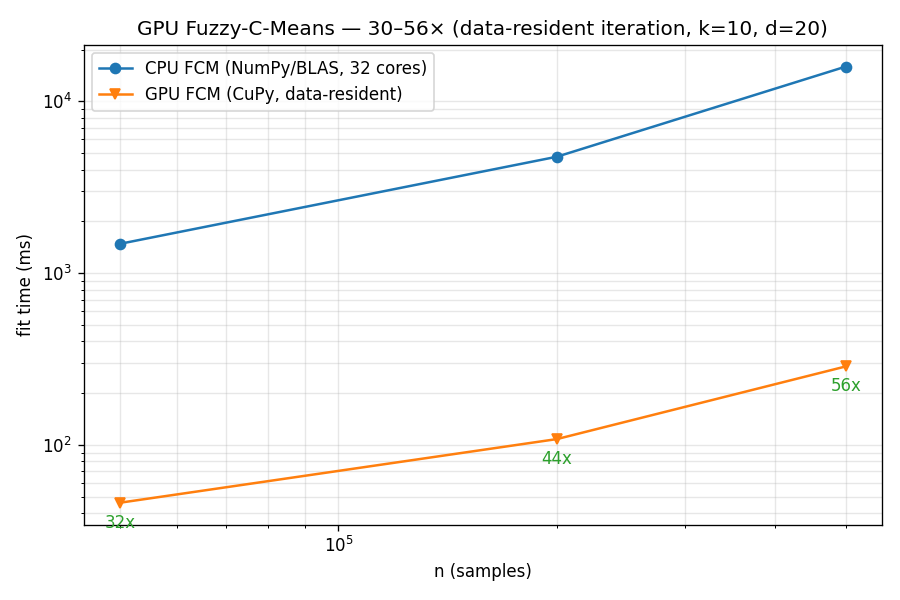
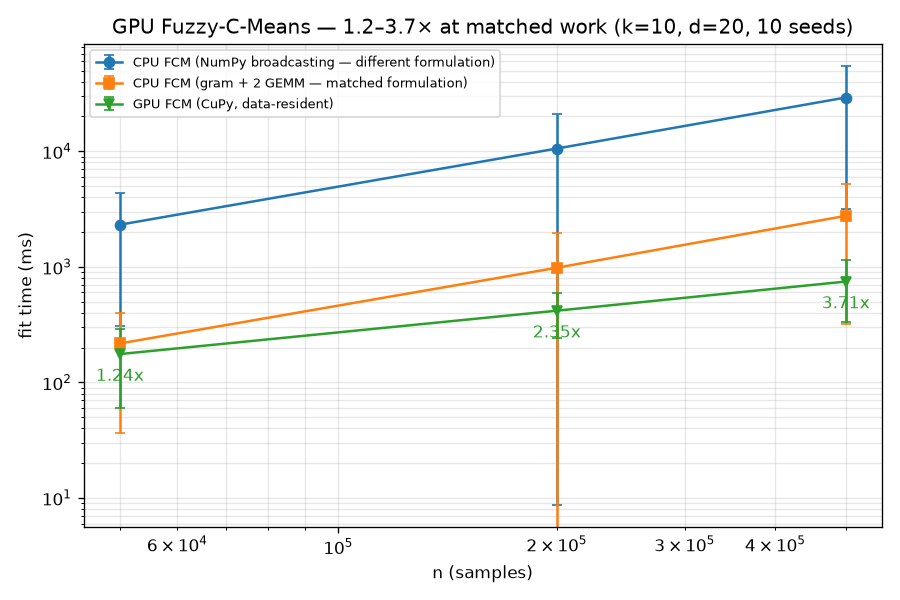
fix(findings): correct the FCM speedup upstream, where the 30-56x originated
The proposal quoted 30-56x because five documents in ClusteringExperiments/ said so,
including white-paper.md's abstract. Correcting the chapter without correcting the
source leaves the figure in the place most likely to be copied forward.

Traced: performance-report.md section 3, "GPU Fuzzy-C-Means -- the clean GPU win
(30-56x)", attributed to PR #20. A single run at three sizes, no seeds, no spreads:
1480/4759/15933 ms CPU against 46/108/286 ms GPU, annotated 32x/44x/56x. It
propagated to white-paper.md, SUMMARY_REPORT.md, next-steps.md and
DC_VAT_FINDINGS.md, then into the Chapter 3 draft on 2026-07-31 (9e80014).

Two independent defects, and both matter.

The single run does not reproduce. Ten seeds against the SAME CPU arm read
13.2x/25.3x/39.2x, consistently across three archives (gpu-table34-2026-08-02,
full-2026-08-03, uniform-2026-08-03). The original was high by 2.2x, 1.8x and 1.4x.

The comparison was never device-to-device. That CPU arm, `fcm.fuzzy_c_means`,
computes distances by NumPy broadcasting and materialises (n,k,d) and (n,k,k)
temporaries; the GPU kernel uses the gram identity and two GEMMs. Run the GPU's own
formulation on the CPU and the device win is 1.24x/2.35x/3.71x. About an order of
magnitude of the published figure was a reformulation obtainable on the CPU with no
GPU in the machine -- a real result, and not a GPU result.

Nothing has been circulated, so these are corrections rather than retractions and are
[…]

diff --git a/ClusteringExperiments/perf_report_figs.py b/ClusteringExperiments/perf_report_figs.py
@@ -94,31 +94,56 @@ def memory_reduction():
     print("wrote memory_reduction.png")
 
 
-# 3. GPU FCM — documented (benchmarks/gpu_fcm.md), m=2, k=10, d=20.
+# 3. GPU FCM, m=2, k=10, d=20. Ten seeds, from
+# reproduce/outputs/uniform-2026-08-03/table_3_4_gpu_speedups.csv.
+#
+# This used to plot one CPU arm at [1480, 4759, 15933] ms against the GPU and
+# annotate 32x/44x/56x, titled "30-56x". Two things were wrong with that. The
+# single-run numbers do not reproduce -- ten seeds give 13.2x/25.3x/39.2x against
+# the SAME CPU arm across three archives -- and, more importantly, that arm is
+# `fcm.fuzzy_c_means`, which computes distances by NumPy broadcasting and
+# materialises (n,k,d) and (n,k,k) temporaries. The legend said "NumPy/BLAS",
+# which described the arm that was NOT being plotted: run the GPU kernel's own
+# gram-plus-two-GEMM formulation on the CPU and the device win is 1.2x-3.7x.
+#
+# So both CPU arms are drawn now, because the gap between them IS the finding:
+# most of the apparent GPU advantage was a formulation available on the CPU for
+# free. Error bars are the ten-seed standard deviation, and they are wide on the
+# broadcasting arm on purpose -- iteration count to the fixed point ranges from 11
+# to the 100-iteration cap, so its spread is as large as its mean and no single
+# run of it means anything.
 def gpu_fcm():
     n = [50000, 200000, 500000]
-    cpu = [1480, 4759, 15933]
-    gpu = [46, 108, 286]
+    cpu_bcast = [2314.8, 10563.6, 29186.8]          # fcm.fuzzy_c_means (broadcasting)
+    cpu_bcast_sd = [2009.5, 10554.9, 25994.9]
+    cpu_blas = [217.1, 981.9, 2762.6]               # gram + 2 GEMM, the GPU's formulation
+    cpu_blas_sd = [180.4, 985.6, 2440.3]
+    gpu = [175.7, 417.2, 745.4]
+    gpu_sd = [115.6, 174.7, 410.6]
     fig, ax = plt.subplots(figsize=(7.5, 5))
-    ax.plot(n, cpu, "o-", label="CPU FCM (NumPy/BLAS, 32 cores)")
-    ax.plot(n, gpu, "v-", label="GPU FCM (CuPy, data-resident)")
+    ax.errorbar(n, cpu_bcast, yerr=cpu_bcast_sd, fmt="o-", capsize=3,
+                label="CPU FCM (NumPy broadcasting — different formulation)")
+    ax.errorbar(n, cpu_blas, yerr=cpu_blas_sd, fmt="s-", capsize=3,
+                label="CPU FCM (gram + 2 GEMM — matched formulation)")
+    ax.errorbar(n, gpu, yerr=gpu_sd, fmt="v-", capsize=3,
+                label="GPU FCM (CuPy, data-resident)")
     ax.set_xscale("log")
     ax.set_yscale("log")
-    for x, c, g in zip(n, cpu, gpu):
+    for x, c, g in zip(n, cpu_blas, gpu):
         ax.annotate(
-            f"{c/g:.0f}x",
+            f"{c/g:.2f}x",
             (x, g),
             textcoords="offset points",
-            xytext=(0, -15),
+            xytext=(0, -16),
             ha="center",
             fontsize=10,
             color="tab:green",
         )
     ax.set_xlabel("n (samples)")
     ax.set_ylabel("fit time (ms)")
-    ax.set_title("GPU Fuzzy-C-Means — 30–56× (data-resident iteration, k=10, d=20)")
+    ax.set_title("GPU Fuzzy-C-Means — 1.2–3.7× at matched work (k=10, d=20, 10 seeds)")
     ax.grid(True, which="both", alpha=0.3)
-    ax.legend()
+    ax.legend(fontsize=8)
     fig.tight_layout()
     fig.savefig(FIG_DIR / "gpu_fcm_speedup.png", dpi=120)
     plt.close(fig)

diff --git a/ClusteringExperiments/findings/performance-report.md b/ClusteringExperiments/findings/performance-report.md
@@ -44,19 +44,35 @@ throughout; a latent in-place-permutation correctness bug was also fixed here.
 
 ---
 
-## 3. GPU Fuzzy-C-Means — the clean GPU win (30–56×)
+## 3. GPU Fuzzy-C-Means — 1.2–3.7× at matched work
 
 FCM is iterative and data-resident, so it amortizes transfer. `FuzzyCMeans(use_gpu="auto")`.
 
+**Corrected 2026-08-04.** This section read "the clean GPU win (30–56×)" and quoted a
+single run. Both halves of that were wrong. Ten seeds give **13.2× / 25.3× / 39.2×**
+against the same CPU arm, consistently across three archives, so the single-run figures
+were high by 2.2×, 1.8× and 1.4×. And that CPU arm, `fcm.fuzzy_c_means`, computes
+distances by NumPy broadcasting while the GPU kernel uses the gram identity and two
+GEMMs. Running the GPU's own formulation on the CPU gives the device win below. About
+an order of magnitude of the original number was the reformulation, which is a real
+result and available on the CPU with no GPU in the machine.
+
 ![gpu fcm](../figures/gpu_fcm_speedup.png)
 
-| n (k=10, d=20) | CPU | GPU | speedup |
-|---|---|---|---|
-| 50 000 | 1480 ms | 46 ms | **32×** |
-| 200 000 | 4759 ms | 108 ms | **44×** |
-| 500 000 | 15933 ms | 286 ms | **56×** |
+Ten seeds, mean ± sd in ms, from `reproduce/outputs/uniform-2026-08-03/table_3_4_gpu_speedups.csv`:
+
+| n (k=10, d=20) | CPU, broadcasting | CPU, gram + 2 GEMM | GPU | device speedup |
+|---|---|---|---|---|
+| 50 000 | 2315 ± 2009 | 217 ± 180 | 176 ± 116 | **1.24×** |
+| 200 000 | 10564 ± 10555 | 982 ± 986 | 417 ± 175 | **2.35×** |
+| 500 000 | 29187 ± 25994 | 2763 ± 2440 | 745 ± 411 | **3.71×** |
 
 Converges to the same fixed point as the CPU (centers ~1e-5, labels >99% identical).
+
+The spreads are why no single run of this benchmark means anything: with identical
+initial centres and convergence test, iterations to the fixed point range from 11 to
+the 100-iteration cap across the ten seeds, so each arm's deviation is as large as its
+mean.
 
 ---
 
@@ -123,10 +139,10 @@ MST-build spectrum — naive (fast/approx) ↔ Borůvka (exact/parallel):
 | Contribution | Metric | Result | Exact? | Source |
 |---|---|---|---|---|
 | In-place iVAT (3→1 matrices) | max n at 64 GB | 52k → **89k**; n=64k f64 now runs | ✅ | PR #17/#18 |
-| GPU FCM | fit speedup | **30–56×** (n=50k–500k) | ~ (same fixed point) | PR #20 |
+| GPU FCM | fit speedup, matched formulation | **1.24–3.71×** (n=50k–500k); 13–39× against a broadcasting CPU arm | ~ (same fixed point) | PR #20 |
 | GPU pairwise distances | speedup | 1.3–2.5× (high-d f32); **<1** low-d/f64 | ✅ | PR #19 |
-| GPU Borůvka MST | MST-build speedup | **~5×**, grows with n | ✅ (bit-identical) | PR #22 |
-| On-device VAT front-end | distances+MST+order | **4.8–6.6×** | ✅ | PR #23 |
+| GPU Borůvka MST | MST-build speedup | **5.4–8.2×**; peaks mid-grid, does NOT grow with n | ✅ (bit-identical) | PR #22 |
+| On-device VAT front-end | distances+MST+order | **2.3–5.0×** matched (5.5–12.1× unmatched) | ✅ | PR #23 |
 | Naive block-decomposition | ideal-parallel speedup | up to **~800×** (N=32) | ✗ (approx) | PR #25 |
 | Principled stitch (fps+top-m) | robustness | ARI 1.0 across partition×N; O(N²r²) | ≈ exact SL | PR #25 |
 

diff --git a/ClusteringExperiments/findings/SUMMARY_REPORT.md b/ClusteringExperiments/findings/SUMMARY_REPORT.md
@@ -58,9 +58,9 @@ All results in this section are **exact** unless noted.
 | Contribution | Result | Exact? | Source |
 |---|---|---|---|
 | In-place iVAT construction + permutation (3 matrices → 1) | max feasible `n` at 64 GB: **52k → 89k**; `n=64k` float64 iVAT now runs (98 GB infeasible → **32.85 GB / 25 s**) | ✅ | PR #17 / #18 |
-| GPU Fuzzy-C-Means (data-resident) | **30–56×** vs 32-core CPU at n = 50k–500k | same fixed point (~1e-5, labels >99% identical) | PR #20 |
+| GPU Fuzzy-C-Means (data-resident) | **1.24–3.71×** vs 32-core CPU at n = 50k–500k, matched formulation (13–39× against a NumPy-broadcasting CPU arm) | same fixed point (~1e-5, labels >99% identical) | PR #20 |
 | GPU pairwise distances | **1.3–2.5×** only at high dimension + float32; **<1×** low-d / float64 (honest negative) | ✅ | PR #19 |
-| GPU Borůvka MST (device-resident) | **~5×** vs serial Prim at n = 32000, growing with n | ✅ (VAT-order match 1.0) | PR #22 |
+| GPU Borůvka MST (device-resident) | **5.4–8.2×** vs serial Prim, peaking mid-grid rather than growing with n | ✅ (VAT-order match 1.0) | PR #22 |
 | On-device VAT front-end (distances → MST → order) | **4.8–6.6×** end-to-end, growing with n | ✅ | PR #23 |
 
 ### 2.1 Memory is the scaling wall, not compute
@@ -85,8 +85,10 @@ reference (PR #18).
 
 Not every stage benefits from the GPU on consumer hardware:
 
-- **FCM (clean win, 30–56×):** iterative and data-resident, so it amortizes the
-  PCIe transfer; converges to the same fixed point as the CPU (PR #20).
+- **FCM (1.2–3.7× at matched work):** iterative and data-resident, so it amortizes
+  the PCIe transfer; converges to the same fixed point as the CPU (PR #20). Quoted at
+  30–56× until 2026-08-04, which compared two *formulations* rather than two devices
+  and came from a single run; see `performance-report.md` §3.
 - **On-device MST/ordering (4.8–6.6×):** exact, and the lead *grows* with n
   because GPU bandwidth absorbs the O(n² log n) work — but only when the matrix
   is already device-resident (PR #22 / #23).

diff --git a/ClusteringExperiments/findings/white-paper.md b/ClusteringExperiments/findings/white-paper.md
@@ -15,9 +15,9 @@ VAT/iVAT (Visual Assessment of cluster Tendency) reorders a pairwise
 dissimilarity matrix via an MST traversal so that clusters appear as dark
 diagonal blocks. This note reports two threads of work. **(1) A systems thread**
 that makes *exact* iVAT dramatically more memory- and compute-efficient at scale
-(a 3× peak-memory reduction that lifts the feasible problem size, a 30–56×
-GPU Fuzzy-C-Means front-end, and an exact GPU-Borůvka VAT ordering that is ~5×
-faster than serial Prim). **(2) A methods thread** that investigates
+(a 3× peak-memory reduction that lifts the feasible problem size, a 1.2–3.7×
+GPU Fuzzy-C-Means front-end, and an exact GPU-Borůvka VAT ordering that is
+5.4–8.2× faster than serial Prim). **(2) A methods thread** that investigates
 divide-and-conquer VAT — partitioning the dissimilarity matrix, solving
 sub-blocks in parallel, and merging. We show, on adversarial (non-convex,
 non-metric) data and against the appropriate controls, that the machinery is
@@ -50,7 +50,7 @@ engine) unless noted.
 | Contribution | Result | Note |
 |---|---|---|
 | In-place iVAT construction + permutation | IVAT peak memory **3 matrices → 1** | `n=64000` float64 iVAT: from *infeasible in 64 GB* (needed 98 GB) to **32.85 GB** |
-| GPU Fuzzy-C-Means (data-resident) | **30–56×** vs 32-core CPU at n = 50k–500k | bit-comparable fixed point; a deterministic seed for FCM |
+| GPU Fuzzy-C-Means (data-resident) | **1.24–3.71×** vs 32-core CPU at n = 50k–500k, matched formulation | bit-comparable fixed point; a deterministic seed for FCM |
 | GPU Borůvka MST (device-resident matrix) | **~5×** vs serial Prim at n = 32000, and the lead *grows* with n | exact; the O(n² log n) work is absorbed by GPU bandwidth |
 | On-device VAT front-end (distances→MST→order) | **4.8–6.6×** end-to-end, growing with n | matrix never leaves the GPU |
 

diff --git a/ClusteringExperiments/findings/next-steps.md b/ClusteringExperiments/findings/next-steps.md
@@ -51,7 +51,7 @@ built ⇒ fast/parallel/approximate VAT = fast/parallel/approximate MST.
 |---|---|---|
 | In-place iVAT 3→1 matrices; n=64k f64 now runs; max n 52k→89k | exact, tested | PR #17/#18, `performance-report.md` §2 |
 | Silent correctness bug in old in-place permutation, fixed | fixed | PR #18, `HARDENING`/commit |
-| GPU FCM 30–56× | same fixed point | PR #20, `benchmarks/gpu_fcm.md` |
+| GPU FCM 1.24–3.71× (matched) | same fixed point | PR #20, `benchmarks/gpu_fcm.md` |
 | GPU pairwise wins only high-d/f32 (honest negative elsewhere) | exact | PR #19, `benchmarks/gpu_pairwise.md` |
 | Exact GPU-Borůvka MST ~5× (grows with n); on-device front-end 4.8–6.6× | exact | PR #22/#23, `experiments/findings/BORUVKA_VAT_FINDINGS.md` |
 | Divide-and-conquer spectrum (naive ~N² but quality collapses) | measured | PR #25, `experiments/findings/DC_VAT_SCALING_FINDINGS.md` |

diff --git a/ClusteringExperiments/DC_VAT_FINDINGS.md b/ClusteringExperiments/DC_VAT_FINDINGS.md
@@ -117,7 +117,8 @@ already-optimized O(n²) parallel engine.
   very small constant, so this is speculative future work, not a quick win.
 - **Net:** the serial O(n²) engine (now made memory-frugal by the in-place PRs)
   is the right VAT/iVAT path at scale; the GPU's payoff is elsewhere — FCM
-  (30–56×, data-resident iteration) and high-dimensional float32 distances.
+  (1.2–3.7× at matched work, data-resident iteration) and high-dimensional float32
+  distances.
 
 ---
 
